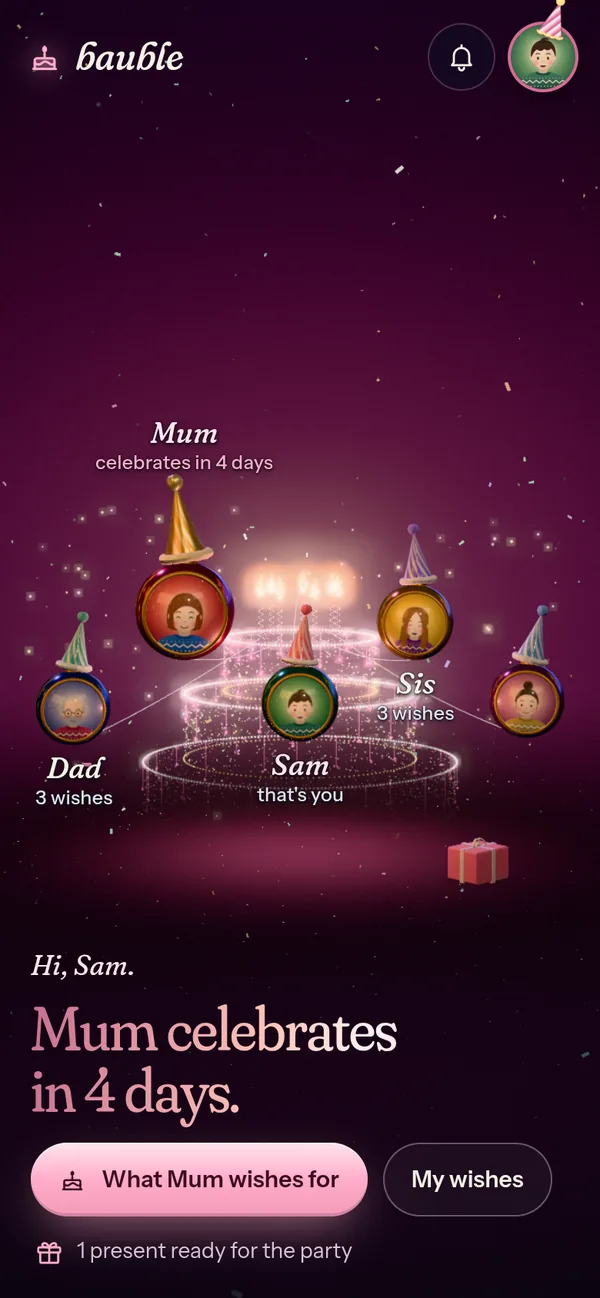
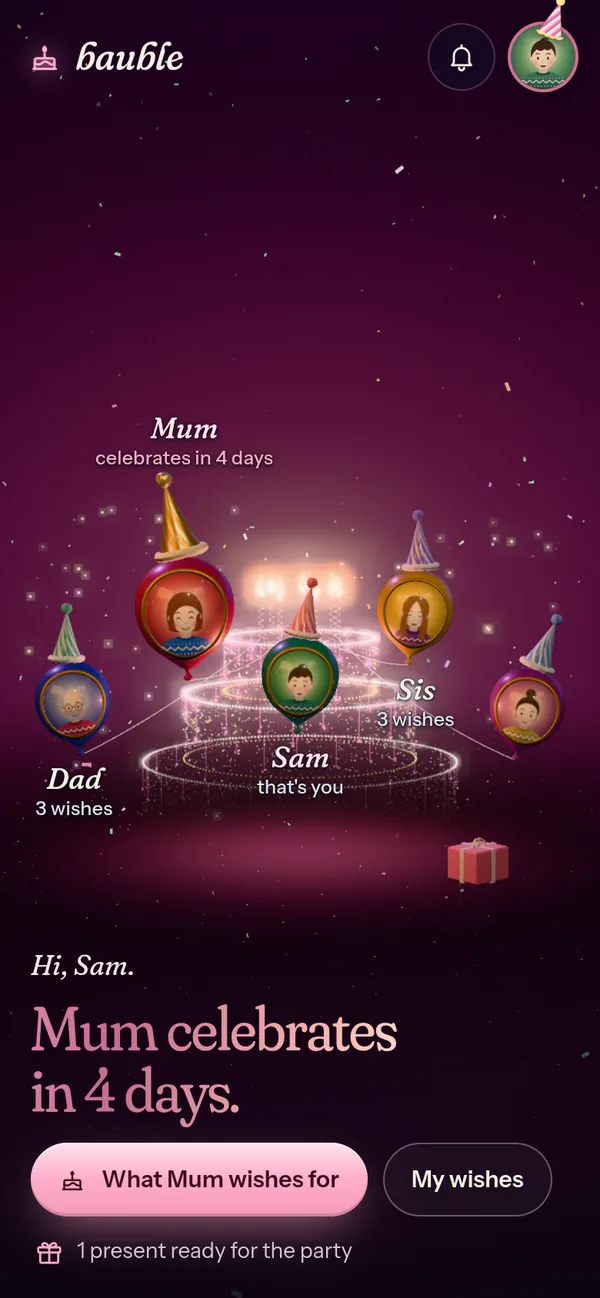
scene: ornaments become balloons on a birthday
The glass sphere, photo and rim morph into a latex balloon with the
birthday weight: an egg shape with a short neck and a knot. The material
changes from metal glass to latex, and the gold cap shrinks away. Strings
start at the knot, and the balloons lean out along their strings. Labels
use the new height.

Material values stay above zero in both looks, so the shader does not
recompile during the transition.

diff --git a/web/src/lib/scene/ornaments.ts b/web/src/lib/scene/ornaments.ts
@@ -6,14 +6,15 @@ import { homeView } from './camera';
 import { S, type SceneMember } from './ctx';
 import { BAUBLE_R, CAKE, CAP_THETA, L_SOLID, SLOTS, slotPos } from './layout';
 import { burst3D } from './particles';
-import { clamp, reduced, stripeTex, V3 } from './util';
+import { clamp, lerp, reduced, stripeTex, V3 } from './util';
 
 export type HatName = 'santa' | 'party' | 'partyGold';
 type HatRig = { g: THREE.Group; y: number; s0: THREE.Vector3; rz: number };
 
 export type Bauble = {
   id: MemberId;
-  faceMat: THREE.MeshPhysicalMaterial;
+  faceMat: THREE.MeshPhysicalMaterial; skin: THREE.MeshPhysicalMaterial;
+  shell: THREE.Mesh[]; cap: THREE.Group; knot: THREE.Mesh;
   root: THREE.Group; yaw: THREE.Group; wob: THREE.Group; hatBox: THREE.Group;
   hats: Record<HatName, HatRig>; hat: HatName | null;
   base: THREE.Vector3; fwd: THREE.Vector3; hits: THREE.Object3D[];
@@ -37,11 +38,44 @@ function fluff<G extends THREE.BufferGeometry>(geo: G, amt: number): G {
   geo.computeVertexNormals(); return geo;
 }
 
+// On a birthday the glass ornament becomes a latex balloon: an egg, wider at the top, with a short neck
+// below NECK that pulls down into the knot. `v` is height on the sphere (-1 to 1). The shell scales
+// sideways by k and moves to height g.
+const NECK = 0.6;
+function balloon(v: number) {
+  const q = Math.max(0, (-v - NECK) / (1 - NECK)), dq = v < -NECK ? -1 / (1 - NECK) : 0, egg = 1 + 0.1 * v, pinch = 1 - 0.4 * q * q;
+  return { k: egg * pinch, dk: 0.1 * pinch - egg * 0.8 * q * dq, g: 1.08 * v - 0.12 * q ** 3, dg: 1.08 - 0.36 * q * q * dq };
+}
+const B_TOP = balloon(1).g, B_TIP = -balloon(-1).g, KNOT_H = 0.13;
+
+/** How far the shell reaches above and below its center at birthday weight `w`, before scaling. */
+export const reach = (w: number) => ({ up: BAUBLE_R * lerp(1, B_TOP, w), down: BAUBLE_R * lerp(1, B_TIP, w) + KNOT_H * w });
+
+/** Adds the balloon shape as morph target 0. Normals use the inverse transpose of the map's Jacobian. */
+function balloonMorph<G extends THREE.BufferGeometry>(geo: G): G {
+  const p = geo.attributes.position, n = geo.attributes.normal, nv = new THREE.Vector3();
+  const P = new Float32Array(p.count * 3), N = new Float32Array(p.count * 3);
+  for (let i = 0; i < p.count; i++) {
+    const x = p.getX(i), y = p.getY(i), z = p.getZ(i), nx = n.getX(i), ny = n.getY(i), nz = n.getZ(i), b = balloon(y / BAUBLE_R);
+    P.set([x * b.k, BAUBLE_R * b.g, z * b.k], i * 3);
+    nv.set(nx * b.dg, ny * b.k - (b.dk / BAUBLE_R) * (x * nx + z * nz), nz * b.dg).normalize();
+    N.set([nv.x, nv.y, nv.z], i * 3);
+  }
+  geo.morphAttributes.position = [new THREE.BufferAttribute(P, 3)];
+  geo.morphAttributes.normal = [new THREE.BufferAttribute(N, 3)];
+  return geo;
+}
+
+// Every value stays above zero in both looks, so the shader program never recompiles mid transition.
+const GLASS = { metalness: 0.78, roughness: 0.13, clearcoat: 1, clearcoatRoughness: 0.04, iridescence: 0.45, envMapIntensity: 1.5 };
+const LATEX: typeof GLASS = { metalness: 0.02, roughness: 0.4, clearcoat: 0.55, clearcoatRoughness: 0.16, iridescence: 0.05, envMapIntensity: 0.8 };
+const LOOK = Object.keys(GLASS) as (keyof typeof GLASS)[];
+
 const PARTY_COLS: [string, string][] = [['#ff6f9c', '#fff1f5'], ['#2fb9b4', '#effffd'], ['#8e6bff', '#f4f0ff'], ['#ff9d3c', '#fff6e6'], ['#4f9bff', '#eef6ff'], ['#ff6b55', '#fff1ec'], ['#3fbf7f', '#effff5']];
 
 type Assets = {
   goldMat: THREE.MeshStandardMaterial; velvet: THREE.MeshPhysicalMaterial; fur: THREE.MeshPhysicalMaterial;
-  sphereGeo: THREE.SphereGeometry; capGeo: THREE.SphereGeometry; rimGeo: THREE.TorusGeometry;
+  sphereGeo: THREE.SphereGeometry; capGeo: THREE.SphereGeometry; rimGeo: THREE.TorusGeometry; knotGeo: THREE.LatheGeometry;
   hat: { cone: THREE.LatheGeometry; brim: THREE.TorusGeometry; pom: THREE.IcosahedronGeometry; tip: THREE.Vector3 };
   party: { cone: THREE.LatheGeometry; ruffle: THREE.TorusGeometry; pom: THREE.IcosahedronGeometry };
 };
@@ -58,7 +92,10 @@ function assets(): Assets {
   const cp = capGeo.attributes.position, uv = capGeo.attributes.uv;
   for (let i = 0; i < cp.count; i++) uv.setXY(i, cp.getX(i) / (2 * rc) + 0.5, cp.getY(i) / (2 * rc) + 0.5);
   uv.needsUpdate = true;
-  const rimGeo = new THREE.TorusGeometry(rc, 0.03, 14, 120);
+  balloonMorph(sphereGeo); balloonMorph(capGeo);
+  const rimGeo = balloonMorph(new THREE.TorusGeometry(rc, 0.03, 14, 120).translate(0, 0, BAUBLE_R * Math.cos(CAP_THETA)));
+  const knotGeo = new THREE.LatheGeometry(new THREE.SplineCurve(([[0.001, -KNOT_H], [0.035, -0.125], [0.055, -0.105], [0.048, -0.08], [0.026, -0.055],
+    [0.022, -0.03], [0.034, 0], [0.05, 0.03]] as const).map(([r, y]) => new THREE.Vector2(r, y))).getPoints(32), 24);
   const h = 0.94, pts: THREE.Vector2[] = [];
   for (let i = 0; i <= 26; i++) { const t = i / 26; pts.push(new THREE.Vector2(0.285 * Math.pow(1 - t, 0.85) + 0.004, t * h)); }
   const cone = new THREE.LatheGeometry(pts, 44);
@@ -68,7 +105,7 @@ function assets(): Assets {
   const pp: THREE.Vector2[] = [];
   for (let i = 0; i <= 20; i++) { const t = i / 20; pp.push(new THREE.Vector2(0.235 * (1 - t) * (1 - 0.08 * Math.sin(t * Math.PI)) + 0.003, t * 0.74)); }
   A = {
-    goldMat, velvet, fur, sphereGeo, capGeo, rimGeo,
+    goldMat, velvet, fur, sphereGeo, capGeo, rimGeo, knotGeo,
     hat: { cone, brim: fluff(new THREE.TorusGeometry(0.29, 0.088, 18, 60).rotateX(Math.PI / 2), 0.022), pom: fluff(new THREE.IcosahedronGeometry(0.115, 5), 0.01), tip: V3(0.64, h - 0.32, 0) },
     party: { cone: new THREE.LatheGeometry(pp, 40), ruffle: fluff(new THREE.TorusGeometry(0.235, 0.04, 10, 48).rotateX(Math.PI / 2), 0.02), pom: fluff(new THREE.IcosahedronGeometry(0.075, 4), 0.02) },
   };
@@ -164,12 +201,12 @@ export function addBauble(m: SceneMember, tex: THREE.Texture | null, st: Status,
   const a = assets();
   const root = new THREE.Group(), yaw = new THREE.Group(), wob = new THREE.Group(), hatBox = new THREE.Group();
   root.add(yaw); yaw.add(wob);
-  const glass = new THREE.MeshPhysicalMaterial({ color: m.glass, metalness: 0.78, roughness: 0.13, clearcoat: 1, clearcoatRoughness: 0.04,
-    iridescence: 0.45, iridescenceIOR: 1.45, iridescenceThicknessRange: [180, 520], envMapIntensity: 1.5 });
-  const sphere = new THREE.Mesh(a.sphereGeo, glass);
+  const skin = new THREE.MeshPhysicalMaterial({ color: m.glass, ...GLASS, iridescenceIOR: 1.45, iridescenceThicknessRange: [180, 520] });
+  const sphere = new THREE.Mesh(a.sphereGeo, skin);
   const faceMat = new THREE.MeshPhysicalMaterial({ map: tex, emissive: 0xffffff, emissiveMap: tex, emissiveIntensity: 0.5, roughness: 0.42, metalness: 0, clearcoat: 0.8, clearcoatRoughness: 0.06, envMapIntensity: 0.32 });
   const face = new THREE.Mesh(a.capGeo, faceMat);
-  const rim = new THREE.Mesh(a.rimGeo, a.goldMat); rim.position.z = BAUBLE_R * Math.cos(CAP_THETA);
+  const rim = new THREE.Mesh(a.rimGeo, a.goldMat);
+  const knot = new THREE.Mesh(a.knotGeo, skin); knot.visible = false;
   const cap = makeCap(a); cap.position.y = BAUBLE_R - 0.03;
   const rig = (g: THREE.Group, y: number, rz: number): HatRig => ({ g, y, s0: g.scale.clone(), rz });
   const santa = makeSanta(a); santa.rotation.z = m.tilt; if (m.tilt > 0) santa.scale.x = -1;
@@ -177,7 +214,7 @@ export function addBauble(m: SceneMember, tex: THREE.Texture | null, st: Status,
   const partyGold = makeParty(a, m.slot, true); partyGold.rotation.z = m.tilt * 0.5; partyGold.scale.setScalar(1.12);
   const hats: Record<HatName, HatRig> = { santa: rig(santa, BAUBLE_R + 0.05, m.tilt), party: rig(party, BAUBLE_R + 0.03, m.tilt * 0.5), partyGold: rig(partyGold, BAUBLE_R + 0.03, m.tilt * 0.5) };
   Object.values(hats).forEach(h => { h.g.position.y = h.y; h.g.visible = false; hatBox.add(h.g); });
-  wob.add(sphere, face, rim, cap, hatBox);
+  wob.add(sphere, face, rim, cap, knot, hatBox);
   const str = new THREE.Line(new THREE.BufferGeometry().setAttribute('position', new THREE.BufferAttribute(new Float32Array(22 * 3), 3)),
     new THREE.LineBasicMaterial({ color: 0xffe6f0, transparent: true, opacity: 0, depthWrite: false }));
   str.frustumCulled = false; str.layers.enable(L_SOLID); S.scene.add(str);
@@ -188,7 +225,7 @@ export function addBauble(m: SceneMember, tex: THREE.Texture | null, st: Status,
   const tgt = orbTargets(st).get(m.id);
   const base = tgt ? tgt.pos.clone() : V3(0, 0, 0);
   const b: Bauble = {
-    id: m.id, faceMat, root, yaw, wob, hatBox, hats, hat: null, base, fwd: fwdFor(base), hits,
+    id: m.id, faceMat, skin, shell: [sphere, face, rim], cap, knot, root, yaw, wob, hatBox, hats, hat: null, base, fwd: fwdFor(base), hits,
     fo: 0, dimS: 1, modeS: tgt?.scale ?? 1, phase: Math.random() * 10, wobA: 0, wobV: 0, hatA: 0, hatV: 0, sc: 1, scV: 0,
     pop: pop ? 0 : 1, dropY: 0, labelAlpha: pop ? 0 : 1, hover: false, str,
   };
@@ -234,9 +271,15 @@ export function setFocusPose(id: MemberId | null) {
 }
 
 export function updateBaubles(dt: number, t: number) {
-  const { WT, camera } = S;
-  const amp = 0.07 + 0.12 * WT.bday, sway = 0.035 + 0.05 * WT.bday;
+  const { WT, camera } = S, w = WT.bday;
+  const amp = 0.07 + 0.12 * w, sway = 0.035 + 0.05 * w;
   for (const b of baubles.values()) {
+    for (const k of LOOK) b.skin[k] = lerp(GLASS[k], LATEX[k], w);
+    b.skin.emissive.copy(b.skin.color).multiplyScalar(0.12 * w);
+    for (const s of b.shell) s.morphTargetInfluences![0] = w;
+    b.cap.scale.setScalar(Math.max(0.0001, 1 - w)); b.cap.visible = w < 0.99;
+    b.knot.scale.setScalar(Math.max(0.0001, w)); b.knot.visible = w > 0.01; b.knot.position.y = -BAUBLE_R * lerp(1, B_TIP, w);
+    b.hatBox.position.y = BAUBLE_R * (B_TOP - 1) * w;
     const target = (b.hover ? 1.08 : 1) * (S.interaction === 'focus' && S.focus === b.id ? 1.04 : 1);
     const steps = Math.max(1, Math.ceil(dt / 0.012)), h = dt / steps;
     for (let s = 0; s < steps; s++) {
@@ -247,21 +290,22 @@ export function updateBaubles(dt: number, t: number) {
     b.wobA = clamp(b.wobA, -0.9, 0.9); b.hatA = clamp(b.hatA, -1.2, 1.2); b.sc = clamp(b.sc, 0.6, 1.5);
     b.root.position.set(b.base.x + b.fwd.x * 1.7 * b.fo, b.base.y + Math.sin(t * 0.9 + b.phase) * amp + b.dropY + 0.12 * b.fo, b.base.z + b.fwd.z * 1.7 * b.fo);
     b.yaw.rotation.y = Math.atan2(camera.position.x - b.root.position.x, camera.position.z - b.root.position.z);
-    b.wob.rotation.z = b.wobA + Math.sin(t * 0.7 + b.phase) * sway;
+    b.wob.rotation.z = b.wobA + Math.sin(t * 0.7 + b.phase) * sway - 0.06 * b.base.x * w;
     b.wob.rotation.x = Math.sin(t * 0.5 + b.phase * 2) * 0.03;
     b.hatBox.rotation.z = b.hatA;
     b.root.scale.setScalar(Math.max(0.0001, b.sc * b.pop * b.dimS * b.modeS));
   }
 }
 
-/** Balloon strings from each ornament down to the cake. */
+/** Balloon strings from each knot down to the cake. */
 export function updateStrings(t: number) {
   const w = S.WT.bday;
   for (const b of baubles.values()) {
     const vis = w > 0.01 && b.pop > 0.2;
     b.str.visible = vis; if (!vis) continue;
     b.str.material.opacity = 0.5 * w * Math.min(1, b.pop);
-    const top = b.root.position.clone(); top.y -= BAUBLE_R * b.root.scale.y * 0.98;
+    b.knot.updateWorldMatrix(true, false);
+    const top = b.knot.localToWorld(V3(0, -KNOT_H, 0));
     const end = V3(top.x * 0.18, CAKE.tiers[2].y1 + 0.02, top.z * 0.18 + 0.25);
     if (Math.abs(top.x) < 0.3) end.set(top.x * 0.5, CAKE.flameY + 0.2, top.z * 0.6);
     const mid = top.clone().lerp(end, 0.5); mid.x += Math.sin(t * 0.9 + b.phase) * 0.25; mid.z += Math.cos(t * 0.7 + b.phase) * 0.15; mid.y -= 0.25;

diff --git a/web/src/lib/scene/labels.ts b/web/src/lib/scene/labels.ts
@@ -1,8 +1,7 @@
 import * as THREE from 'three';
 import type { MemberId } from '../domain/types';
 import { S } from './ctx';
-import { BAUBLE_R } from './layout';
-import { baubles, type Bauble } from './ornaments';
+import { baubles, reach, type Bauble } from './ornaments';
 import { isMobile, lerp } from './util';
 
 type Label = { el: HTMLElement; w: number; h: number; x: number | null; y: number; v: number };
@@ -33,15 +32,15 @@ function hide(l: Label) { l.el.style.opacity = '0'; l.el.style.pointerEvents = '
  */
 export function layoutLabels() {
   const { W, H, ui } = S;
-  const show = S.interaction === 'home';
+  const show = S.interaction === 'home', r = reach(S.WT.bday);
   const items: { b: Bauble; l: Label; below: ReturnType<typeof project>; above: ReturnType<typeof project>; ctr: ReturnType<typeof project>; pri: number }[] = [];
   for (const [id, l] of labels) {
     const b = baubles.get(id);
     if (!b) continue;
     if (!show || b.labelAlpha <= 0.01 || b.pop < 0.3) { hide(l); continue; }
     const s = b.sc * b.pop * b.modeS * b.dimS;
-    const below = project(tmp2.copy(b.root.position).add(up.set(0, -BAUBLE_R * s - 0.06, 0)));
-    const above = project(tmp2.copy(b.root.position).add(up.set(0, BAUBLE_R * s + (b.hat ? 0.95 : 0.12) * s, 0)));
+    const below = project(tmp2.copy(b.root.position).add(up.set(0, -r.down * s - 0.06, 0)));
+    const above = project(tmp2.copy(b.root.position).add(up.set(0, r.up * s + (b.hat ? 0.95 : 0.12) * s, 0)));
     const ctr = project(b.root.position);
     const st = S.status, cel = st?.mode === 'bday' && st.occ.who === id;
     items.push({ b, l, below, above, ctr, pri: (cel ? 100 : 0) + (id === S.me ? 10 : 0) - ctr.z });

diff --git a/README.md b/README.md
@@ -16,7 +16,7 @@ PocketBase binary serves everything: the site, the API, realtime updates and the
 
 <p align="center">
   <img src="docs/phone-birthday.webp" width="31%"
-       alt="Four days before Mum's birthday: the ornaments wear party hats around a glowing cake">
+       alt="Four days before Mum's birthday: the ornaments are balloons in party hats, tied to a glowing cake">
   &nbsp;
   <img src="docs/phone-quiet.webp" width="31%"
        alt="The quiet months: ornaments drift under a moon made of stars, upcoming occasions below">
